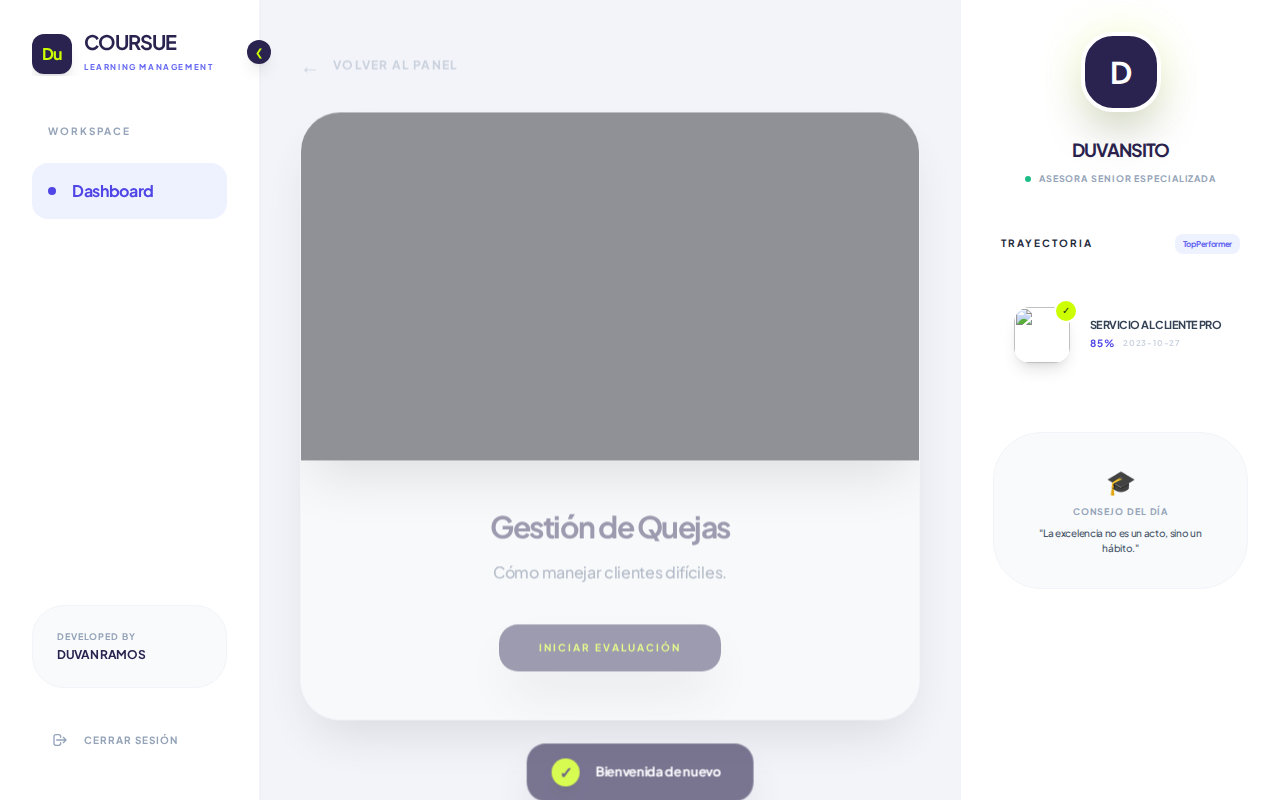
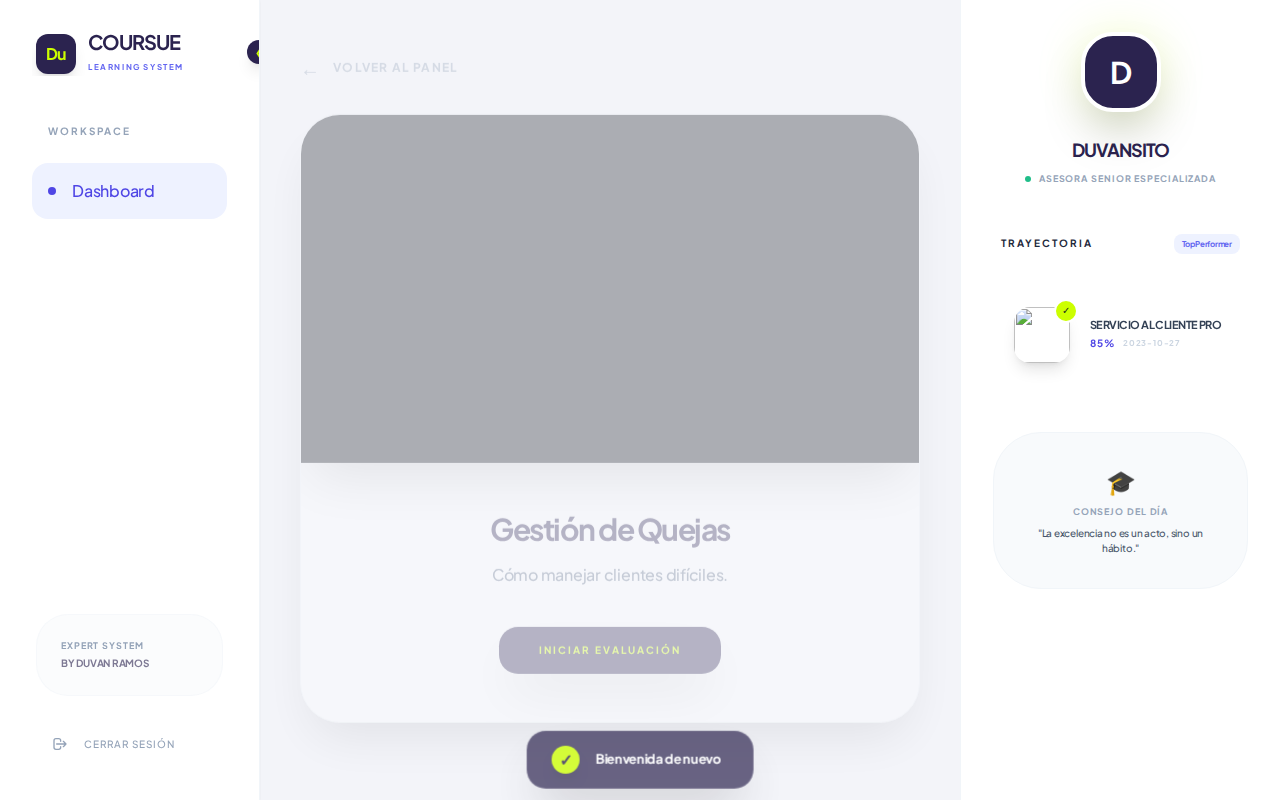
Refine DuAcademy Pro with premium UI and evaluation restrictions
- Implement "one-attempt only" logic for module evaluations.
- Complete redesign with high-end SaaS aesthetic (Glassmorphism, smooth transitions).
- Standardize typography to Plus Jakarta Sans and remove excessive italics.
- Add collapsible sidebar and horizontal module card layout.
- Enhance module view with previous score badges for completed items.
- Ensure 'By Duvan Ramos' branding consistency.

diff --git a/Index.html b/Index.html
@@ -41,11 +41,11 @@
         <span id="sidebarToggleIcon" class="text-[10px]">❮</span>
       </button>
 
-      <div class="flex items-center gap-3 mb-12 overflow-hidden">
+      <div class="sidebar-logo-container flex items-center gap-3 mb-12 overflow-hidden px-1 transition-all">
         <div class="w-10 h-10 bg-[#2B234F] rounded-xl flex items-center justify-center text-[#CCFF00] font-bold shadow-lg shrink-0">Du</div>
         <div class="sidebar-header-text">
           <span class="font-bold text-xl tracking-tighter text-[#2B234F] block leading-none">COURSUE</span>
-          <span class="text-[8px] font-bold text-indigo-500 uppercase tracking-[0.2em]">Learning Management</span>
+          <span class="text-[8px] font-bold text-indigo-500 uppercase tracking-[0.2em]">Learning System</span>
         </div>
       </div>
 
@@ -57,12 +57,12 @@
         </div>
       </nav>
 
-      <div class="mt-auto space-y-6">
-        <div class="sidebar-text bg-slate-50 p-6 rounded-[2rem] border border-slate-100">
-          <p class="text-[9px] font-bold text-slate-400 uppercase tracking-widest mb-1">Developed by</p>
-          <p class="text-xs font-bold text-[#2B234F] uppercase">Duvan Ramos</p>
+      <div class="mt-auto space-y-6 px-1">
+        <div class="sidebar-text bg-slate-50/50 p-6 rounded-[2rem] border border-slate-100/50">
+          <p class="text-[9px] font-bold text-slate-400 uppercase tracking-widest mb-1">Expert System</p>
+          <p class="text-[10px] font-bold text-[#2B234F] uppercase opacity-60">By Duvan Ramos</p>
         </div>
-        <button onclick="cerrarSesion()" class="sidebar-nav-item flex items-center gap-4 p-5 text-slate-400 hover:text-rose-500 hover:bg-rose-50 rounded-2xl font-bold transition-all w-full uppercase text-[10px] tracking-widest">
+        <button onclick="cerrarSesion()" class="sidebar-nav-item flex items-center gap-4 p-4 text-slate-400 hover:text-rose-500 hover:bg-rose-50 rounded-2xl font-bold transition-all w-full uppercase text-[10px] tracking-widest">
           <svg class="w-4 h-4 shrink-0" fill="none" stroke="currentColor" viewBox="0 0 24 24"><path stroke-linecap="round" stroke-linejoin="round" stroke-width="2" d="M17 16l4-4m0 0l-4-4m4 4H7m6 4v1a3 3 0 01-3 3H6a3 3 0 01-3-3V7a3 3 0 013-3h4a3 3 0 013 3v1"></path></svg>
           <span class="sidebar-text">Cerrar Sesión</span>
         </button>
@@ -100,6 +100,11 @@
           </div>
           <div class="p-8 md:p-12">
              <div class="max-w-2xl mx-auto text-center">
+               <div id="statusBadgeModulo" class="hidden mb-6">
+                 <span class="bg-indigo-100 text-indigo-600 text-[10px] font-bold px-4 py-1.5 rounded-full uppercase tracking-widest border border-indigo-200 shadow-sm">
+                   Resultado: <span id="notaPreviaModulo">0%</span>
+                 </span>
+               </div>
                <h2 id="tituloModuloInterno" class="text-2xl md:text-3xl font-bold mb-4 tracking-tighter text-[#2B234F]"></h2>
                <div id="textoModuloInterno" class="text-slate-500 text-sm md:text-base mb-10 font-medium leading-relaxed"></div>
                <button id="btnRealizarEvaluacion" onclick="cargarExamen()" class="btn-primary px-10 py-4 rounded-[1.2rem] font-bold uppercase text-[10px] tracking-[0.2em] shadow-2xl mx-auto">Iniciar Evaluación</button>

diff --git a/Styles.html b/Styles.html
@@ -13,16 +13,22 @@
 
   body {
     font-family: 'Plus Jakarta Sans', sans-serif;
-    letter-spacing: -0.02em;
+    letter-spacing: -0.015em;
     background-color: var(--bg-main);
     color: #1A1D23;
     margin: 0;
     overflow-x: hidden;
+    -webkit-font-smoothing: antialiased;
   }
 
   /* Global Typography Reset */
   h1, h2, h3, h4, h5, p, span, button, input, div, iframe {
     font-style: normal !important;
+    font-weight: 500;
+  }
+
+  h1, h2, h3, h4 {
+    font-weight: 700;
   }
 
   .animate-fade-in { animation: fadeIn 0.6s cubic-bezier(0.16, 1, 0.3, 1) forwards; }
@@ -42,9 +48,12 @@
   .sidebar {
     width: var(--sidebar-width);
     transition: width var(--transition-speed) cubic-bezier(0.4, 0, 0.2, 1);
+    overflow: hidden;
   }
   .sidebar.collapsed {
     width: var(--sidebar-collapsed-width);
+    padding-left: 0 !important;
+    padding-right: 0 !important;
   }
   .sidebar.collapsed .sidebar-text,
   .sidebar.collapsed .sidebar-header-text {
@@ -53,18 +62,23 @@
   .sidebar.collapsed .sidebar-nav-item {
     justify-content: center;
     padding: 1rem;
+    margin: 0 0.75rem;
+  }
+  .sidebar.collapsed .sidebar-logo-container {
+    justify-content: center;
+    margin-bottom: 2rem;
   }
 
   /* Course Card Refinement */
   .course-card {
     background: white;
-    border-radius: 2rem;
-    transition: all 0.3s cubic-bezier(0.4, 0, 0.2, 1);
+    border-radius: 2.5rem;
+    transition: all 0.4s cubic-bezier(0.175, 0.885, 0.32, 1.1);
     border: 1px solid rgba(255, 255, 255, 0.8);
-    box-shadow: 0 4px 6px -1px rgba(0, 0, 0, 0.05);
+    box-shadow: 0 4px 20px -5px rgba(43, 35, 79, 0.03);
   }
   .course-card:hover {
-    transform: translateY(-8px);
+    transform: translateY(-5px);
     box-shadow: var(--shadow-premium);
     border-color: var(--accent);
   }

diff --git a/Scripts.html b/Scripts.html
@@ -153,8 +153,15 @@
 
     // Lógica de "Una sola evaluación"
     const btnEval = document.getElementById('btnRealizarEvaluacion');
+    const badge = document.getElementById('statusBadgeModulo');
+    const notaSpan = document.getElementById('notaPreviaModulo');
+
     if(yaRealizo) {
       btnEval.classList.add('hidden');
+      badge.classList.remove('hidden');
+      const pct = Math.round(yaRealizo.nota * 100);
+      notaSpan.innerText = pct + "%";
+
       if(yaAprobo) {
         setTimeout(() => showNotification("Módulo aprobado. Puedes repasar el contenido.", "success"), 300);
       } else {
@@ -162,6 +169,7 @@
       }
     } else {
       btnEval.classList.remove('hidden');
+      badge.classList.add('hidden');
     }
 
     document.getElementById('vistaDashboard').classList.add('hidden');
